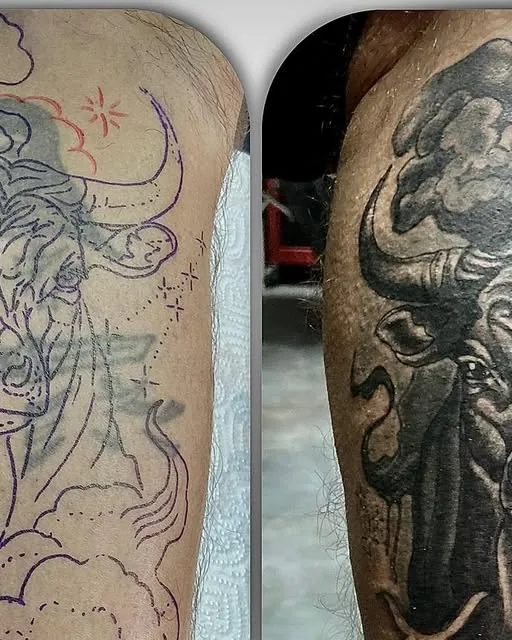
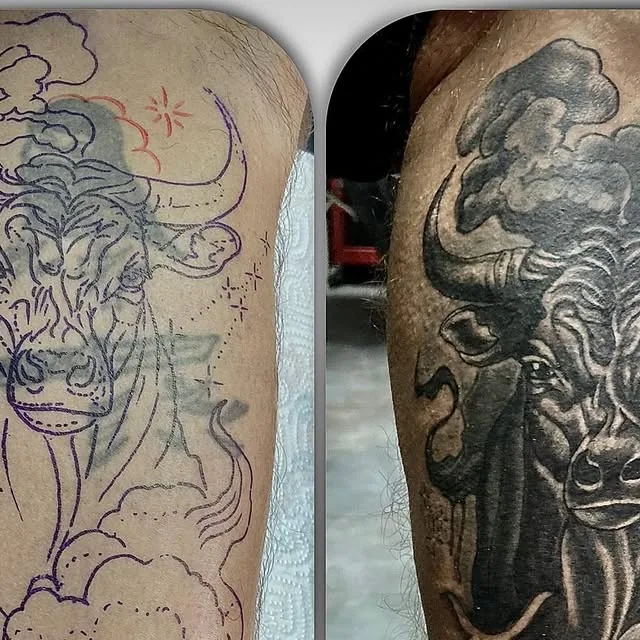
Tira os zooms das fotos e deixa o mapa igual ao do DnA
PROBLEMA 1 - zoom nas fotos
Medi antes de mexer. A grade nao cortava nada: as fotos ja chegam
quadradas do Instagram. O corte era meu em outros tres lugares:

  - hover das fotos tinha transform:scale(1.055) -- zoom de verdade
  - .band__ph e .artist__ph forcavam aspect-ratio:4/5 numa foto
    640x640, cortando 20% das laterais
  - object-fit:cover comia as pontas de qualquer foto nao exata

Agora: sem scale no hover, object-fit:contain com fundo escuro, e o
gerador produz spot.webp e studio.webp quadradas em vez de 4:5.

⚠ Fica um corte que NAO e nosso: o og:image do Instagram ja entrega o
post 4:5 esquartejado em quadrado. Para ter a foto inteira so com os
originais do dono, ou pelo Facebook (onde o album nao corta).

PROBLEMA 2 - mapa
Voltou a ser identico ao do DnA: Leaflet do unpkg carregando junto com a
pagina, tiles CartoDB dark, mesmo pin vermelho, mesmo invalidateSize com
ResizeObserver. So mudou a coordenada (35.9467465, 14.408689) e o
endereco do botao "Open in Google Maps".

A cortina de carregar-ao-clicar saiu, como o Joao pediu.

Como o embed passou a carregar sozinho e Malta e UE, a regra 8 manda
deixar o banner e a politica escritos e desligados: entrou
INTEGRACOES.consentimento (ativo:false) com o banner pronto -- Aceitar e
Recusar do mesmo tamanho -- e privacy.html escrita em ingles, citando o
IDPC. Nao esta linkada enquanto o banner dorme.

Conferido no navegador: object-fit contain, transform none, Leaflet
[…]

diff --git a/index.html b/index.html
@@ -10,6 +10,7 @@
 <link rel="preconnect" href="https://fonts.googleapis.com">
 <link rel="preconnect" href="https://fonts.gstatic.com" crossorigin>
 <link href="https://fonts.googleapis.com/css2?family=Anton&family=Inter:wght@400;500;600;700&family=Pirata+One&display=swap" rel="stylesheet">
+<link rel="stylesheet" href="https://unpkg.com/leaflet@1.9.4/dist/leaflet.css">
 <style>
 /* ============================================================
    INKREDIBLE GHILLER TATTOO — MVP de prospeccao
@@ -215,12 +216,16 @@ body::before{
 }
 .tile.in{opacity:1;transform:none}
 .tile:hover{border-color:var(--mut)}
+/* contain, nao cover: se a foto nao for exatamente quadrada, cover come as
+   pontas. A tatuagem inteira vale mais que o quadro perfeito. */
 .tile img{
-  width:100%;height:100%;object-fit:cover;
-  transition:transform .5s ease,filter .5s ease;
+  width:100%;height:100%;object-fit:contain;background:#0E0E11;
+  transition:filter .5s ease;
   filter:grayscale(12%);
 }
-.tile:hover img{transform:scale(1.055);filter:grayscale(0)}
+/* sem zoom ao passar o mouse: o Joao pediu para ver a tatuagem inteira,
+   e o scale cortava as bordas. Fica so a cor voltando. */
+.tile:hover img{filter:grayscale(0)}
 .tile__tag{
   position:absolute;left:0;right:0;bottom:0;
   padding:26px 12px 10px;
@@ -242,7 +247,9 @@ body::before{
 .band__in{display:grid;grid-template-columns:1fr 1.1fr;gap:clamp(28px,5vw,64px);align-items:center}
 @media(max-width:860px){.band__in{grid-template-columns:1fr}}
 .band__ph{position:relative;border-radius:var(--r);overflow:hidden;border:1px solid var(--line)}
-.band__ph img{width:100%;height:100%;object-fit:cover;aspect-ratio:4/5}
+/* quadrado, nao 4:5: forcar 4:5 numa foto quadrada cortava 20% das
+   laterais -- era o "zoom" que o Joao viu. */
+.band__ph img{width:100%;height:auto;object-fit:contain}
 .band__stamp{
   position:absolute;top:14px;left:14px;background:rgba(8,8,10,.8);border:1px solid var(--line);
   border-radius:3px;padding:7px 12px;font-size:10.5px;letter-spacing:.2em;text-transform:uppercase;color:var(--ink);
@@ -258,7 +265,7 @@ body::before{
 .artist{display:grid;grid-template-columns:.9fr 1.1fr;gap:clamp(30px,5vw,70px);align-items:center}
 @media(max-width:860px){.artist{grid-template-columns:1fr}}
 .artist__ph{position:relative;border-radius:var(--r);overflow:hidden;border:1px solid var(--line)}
-.artist__ph img{width:100%;aspect-ratio:4/5;object-fit:cover;filter:grayscale(100%) contrast(1.05)}
+.artist__ph img{width:100%;height:auto;object-fit:contain;filter:grayscale(100%) contrast(1.05)}
 .artist__ph::after{
   content:"INKREDIBLE GHILLER";position:absolute;right:14px;bottom:12px;
   font-family:var(--display);font-size:12px;letter-spacing:.24em;color:rgba(233,228,218,.8);
@@ -343,19 +350,8 @@ body::before{
 .map .leaflet-control-attribution a{color:#8E8779}
 .map .leaflet-bar a{background:#15151A;color:#E9E4DA;border-color:#232329}
 .map .leaflet-bar a:hover{background:#1d1d23}
-/* cortina do mapa: nada de terceiro carrega antes do clique (regra 8 / GDPR) */
-.map__gate{
-  position:absolute;inset:0;z-index:5;display:flex;flex-direction:column;
-  align-items:center;justify-content:center;gap:14px;text-align:center;padding:26px;
-  background:
-    radial-gradient(circle at 50% 45%, rgba(193,18,31,.10), transparent 62%),
-    repeating-linear-gradient(45deg,#0E0E11 0 14px,#111116 14px 28px);
-}
-.map__gate p{font-size:13px;color:var(--mut);max-width:38ch;line-height:1.55}
-.map__gate b{color:var(--ink);display:block;font-family:var(--display);
-  font-size:20px;letter-spacing:.05em;text-transform:uppercase;margin-bottom:2px}
 .map__open{
-  position:absolute;left:14px;bottom:14px;z-index:6;
+  position:absolute;left:14px;bottom:14px;
   background:rgba(8,8,10,.85);border:1px solid var(--line);border-radius:var(--r);
   color:var(--ink);text-decoration:none;font-size:12.5px;font-weight:600;letter-spacing:.05em;
   padding:11px 16px;display:inline-flex;gap:8px;align-items:center;min-height:44px;
@@ -660,14 +656,9 @@ body::before{
       <h2 class="h2">St Paul's <em>Bay</em></h2>
     </div>
     <div class="find" style="margin-top:38px">
-      <div class="map rev" aria-label="Where Inkredible Ghiller Tattoo is">
+      <div class="map rev" aria-label="Map of Inkredible Ghiller Tattoo on Mosta Road, St Paul's Bay, Malta">
         <div id="leafmap"></div>
-        <div class="map__gate" id="mapGate">
-          <p><b>Mosta Road</b>Buġibba, St Paul's Bay</p>
-          <button class="btn btn--ghost" id="mapLoad" type="button">Show the map</button>
-          <p style="font-size:11.5px">The map is loaded from OpenStreetMap only after you ask for it, so nothing about you leaves this page on its own.</p>
-        </div>
-        <a class="map__open" href="https://www.google.com/maps/search/?api=1&amp;query=35.9467465,14.408689" target="_blank" rel="noopener noreferrer">Open in Google Maps ↗</a>
+        <a class="map__open" href="https://www.google.com/maps/search/?api=1&amp;query=Inkredibel+Ghiller+Tattoo+Malta+Triq+il-Mosta+Bugibba" target="_blank" rel="noopener noreferrer">Open in Google Maps ↗</a>
       </div>
       <div class="info rev">
         <div class="info__row">
@@ -752,8 +743,51 @@ const INTEGRACOES = {
   metaPixel: { ativo:false, id:"" },   // Pixel do Facebook
   formspree: { ativo:false, id:"" },   // formulario que salva
   planilha:  { ativo:false, url:"" },  // Google Sheets
-  agenda:    { ativo:false, url:"" }   // agendamento online
+  agenda:    { ativo:false, url:"" },  // agendamento online
+
+  /* O MAPA e o unico terceiro que carrega sozinho nesta pagina. Ligar este
+     item no dia que o cliente fechar: ele segura o mapa ate a pessoa
+     aceitar e mostra o link da politica. A politica ja esta em privacy.html. */
+  consentimento: { ativo:false, politica:"privacy.html" }
 };
+
+/* ---------- banner de consentimento (dorme ate INTEGRACOES ligar) ----------
+   Escrito agora de proposito: a regra 8 diz que, se um embed entra no MVP
+   mesmo assim, o banner e a politica ficam prontos e desligados -- pra virar
+   uma linha no dia que ele fechar, e nao um projeto. */
+(() => {
+  if (!INTEGRACOES.consentimento.ativo) return;
+  let escolha = null;
+  try { escolha = localStorage.getItem("mapa-ok"); } catch (e) {}
+  if (escolha !== null) return;
+  const el = document.createElement("div");
+  el.innerHTML =
+    '<p style="margin:0;max-width:62ch">This site shows a map from OpenStreetMap.'
+    + ' Loading it shares your IP address with the map provider. Nothing else is'
+    + ' collected and no cookies are set. <a style="color:#E9E4DA" href="'
+    + INTEGRACOES.consentimento.politica + '">Privacy policy</a></p>'
+    + '<div style="display:flex;gap:10px"><button type="button" data-ok="1">Accept'
+    + '</button><button type="button" data-ok="0">Decline</button></div>';
+  el.style.cssText = "position:fixed;left:16px;right:16px;bottom:16px;z-index:70;"
+    + "background:#15151A;border:1px solid #232329;border-radius:10px;"
+    + "padding:18px 20px;display:flex;flex-wrap:wrap;gap:14px;align-items:center;"
+    + "justify-content:space-between;font:400 13.5px Inter,system-ui,sans-serif;"
+    + "color:#C9C3B6;max-width:900px;margin:0 auto";
+  el.querySelectorAll("button").forEach(b => {
+    /* Aceitar e Recusar com o mesmo tamanho e o mesmo peso: a regra 8 exige
+       que recusar seja tao facil quanto aceitar. */
+    b.style.cssText = "min-height:44px;padding:11px 22px;border-radius:6px;"
+      + "cursor:pointer;font:700 13px Inter,system-ui,sans-serif;"
+      + "border:1px solid #232329;background:"
+      + (b.dataset.ok === "1" ? "#C1121F;color:#fff" : "transparent;color:#E9E4DA");
+    b.addEventListener("click", () => {
+      try { localStorage.setItem("mapa-ok", b.dataset.ok); } catch (e) {}
+      el.remove();
+      if (b.dataset.ok === "1") location.reload();
+    });
+  });
+  document.body.appendChild(el);
+})();
 
 const $  = s => document.querySelector(s);
 const $$ = s => [...document.querySelectorAll(s)];
@@ -842,43 +876,39 @@ $("#ideaForm").addEventListener("submit", e => {
               "_blank", "noopener");
 });
 
-/* ---------- mapa: so carrega DEPOIS do clique ----------
-   O site do DnA puxava o Leaflet do unpkg e os tiles do CartoDB no
-   carregamento da pagina. Isso manda o IP de quem visita para dois
-   servidores de fora antes de a pessoa clicar em nada — em Malta,
-   que e UE, isso e tratamento de dado pessoal sem base legal.
-   Aqui nada de terceiro e pedido ate o visitante apertar o botao. */
-(() => {
-  const bt = $("#mapLoad"), gate = $("#mapGate"), el = $("#leafmap");
-  if (!bt) return;
-  const carregar = () => {
-    bt.disabled = true;
-    bt.textContent = "Loading…";
-    const css = document.createElement("link");
-    css.rel = "stylesheet";
-    css.href = "https://unpkg.com/leaflet@1.9.4/dist/leaflet.css";
-    document.head.appendChild(css);
-    const js = document.createElement("script");
-    js.src = "https://unpkg.com/leaflet@1.9.4/dist/leaflet.js";
-    js.onload = () => {
-      const map = L.map("leafmap", {
-        center:[CONFIG.lat, CONFIG.lon], zoom:16, zoomControl:true, scrollWheelZoom:true
-      });
-      L.tileLayer("https://{s}.basemaps.cartocdn.com/dark_all/{z}/{x}/{y}{r}.png", {
-        subdomains:"abcd", maxZoom:20, attribution:"&copy; OpenStreetMap &copy; CARTO"
-      }).addTo(map);
-      const pin = L.divIcon({ className:"", iconSize:[30,40], iconAnchor:[15,40],
-        html:'<svg width="30" height="40" viewBox="0 0 24 32" xmlns="http://www.w3.org/2000/svg"><path fill="#C1121F" stroke="#0B0B0D" stroke-width="1.2" d="M12 1C6.8 1 3 4.9 3 9.9 3 16.7 12 31 12 31s9-14.3 9-21.1C21 4.9 17.2 1 12 1z"/><circle cx="12" cy="10" r="3.2" fill="#0B0B0D"/></svg>' });
-      L.marker([CONFIG.lat, CONFIG.lon], {icon:pin}).addTo(map);
-      gate.remove();
-      const fix = () => map.invalidateSize();
-      requestAnimationFrame(fix);
-      if (window.ResizeObserver) new ResizeObserver(fix).observe(el);
-    };
-    js.onerror = () => { bt.disabled = false; bt.textContent = "Map unavailable — open in Google Maps"; };
-    document.head.appendChild(js);
-  };
-  bt.addEventListener("click", carregar);
+/* o mapa ficou igual ao do DnA: script proprio no fim do body */
+</script>
+<script src="https://unpkg.com/leaflet@1.9.4/dist/leaflet.js"></script>
+<script>
+/* mapa escuro interativo (Leaflet + tiles CartoDB dark), igual ao do DnA.
+   Carrega no site publicado; em visualizador que bloqueia conteudo externo
+   pode nao aparecer -- normal.
+
+   ATENCAO: Malta e UE. Este embed pede o Leaflet ao unpkg e os tiles ao
+   CartoDB assim que a pagina abre, o que manda o IP de quem visita para fora
+   antes de qualquer clique. Enquanto for MVP com noindex (so o dono ve), nao
+   ha exposicao pratica. NO DIA QUE ELE FECHAR: ligar
+   INTEGRACOES.consentimento e publicar privacy.html -- ja estao escritos. */
+(function(){
+  var el = document.getElementById("leafmap");
+  if (typeof L === "undefined" || !el) return;
+  var LAT = 35.9467465, LON = 14.408689;
+  var map = L.map("leafmap", {
+    center:[LAT,LON], zoom:16, zoomControl:true, scrollWheelZoom:true
+  });
+  L.tileLayer("https://{s}.basemaps.cartocdn.com/dark_all/{z}/{x}/{y}{r}.png", {
+    subdomains:"abcd", maxZoom:20, attribution:"&copy; OpenStreetMap &copy; CARTO"
+  }).addTo(map);
+  var pin = L.divIcon({ className:"", iconSize:[30,40], iconAnchor:[15,40],
+    html:'<svg width="30" height="40" viewBox="0 0 24 32" xmlns="http://www.w3.org/2000/svg"><path fill="#C1121F" stroke="#0B0B0D" stroke-width="1.2" d="M12 1C6.8 1 3 4.9 3 9.9 3 16.7 12 31 12 31s9-14.3 9-21.1C21 4.9 17.2 1 12 1z"/><circle cx="12" cy="10" r="3.2" fill="#0B0B0D"/></svg>' });
+  L.marker([LAT,LON], {icon:pin}).addTo(map);
+
+  /* o container tem altura fixa, mas garantimos o recalculo caso a
+     fonte/layout mude depois do init */
+  var fix = function(){ map.invalidateSize(); };
+  requestAnimationFrame(fix);
+  addEventListener("load", fix);
+  if (window.ResizeObserver) new ResizeObserver(fix).observe(el);
 })();
 </script>
 </body>

diff --git a/privacy.html b/privacy.html
@@ -1,0 +1,105 @@
+<!doctype html>
+<html lang="en">
+<head>
+<meta charset="utf-8">
+<meta name="viewport" content="width=device-width, initial-scale=1">
+<meta name="robots" content="noindex, nofollow">
+<title>Privacy Policy — Inkredible Ghiller Tattoo</title>
+<link rel="preconnect" href="https://fonts.googleapis.com">
+<link rel="preconnect" href="https://fonts.gstatic.com" crossorigin>
+<link href="https://fonts.googleapis.com/css2?family=Anton&family=Inter:wght@400;600;700&display=swap" rel="stylesheet">
+<style>
+/* ============================================================
+   POLITICA DE PRIVACIDADE — escrita ANTES de precisar.
+   Regra 8: Malta e UE, e o mapa do site carrega de servidor de fora.
+   Enquanto INTEGRACOES.consentimento estiver desligado, esta pagina
+   existe mas nao esta linkada. No dia que ligar, o banner aponta pra ca.
+   ⚠ Os campos entre colchetes precisam do dono antes de publicar.
+   ============================================================ */
+:root{--bg:#0B0B0D;--panel:#15151A;--line:#232329;--ink:#E9E4DA;--mut:#8E8779;--red:#C1121F}
+*{box-sizing:border-box;margin:0;padding:0}
+body{background:var(--bg);color:var(--ink);font-family:Inter,system-ui,sans-serif;
+     font-size:16px;line-height:1.65}
+.wrap{max-width:760px;margin:0 auto;padding:clamp(40px,8vw,90px) clamp(20px,5vw,40px)}
+h1{font-family:Anton,Impact,sans-serif;font-size:clamp(34px,6vw,54px);
+   text-transform:uppercase;font-weight:400;line-height:1.05;margin-bottom:10px}
+h2{font-family:Anton,Impact,sans-serif;font-size:20px;text-transform:uppercase;
+   font-weight:400;letter-spacing:.04em;margin:36px 0 10px;color:var(--ink)}
+p,li{color:#C9C3B6;margin-bottom:12px}
+ul{padding-left:20px}
+a{color:var(--ink)}
+.date{font-size:12px;letter-spacing:.2em;text-transform:uppercase;color:var(--mut);
+      margin-bottom:34px}
+.box{background:var(--panel);border:1px solid var(--line);border-left:3px solid var(--red);
+     border-radius:0 6px 6px 0;padding:18px 22px;margin:26px 0}
+.back{display:inline-flex;align-items:center;min-height:44px;margin-top:40px;
+      font-size:13px;font-weight:700;letter-spacing:.06em;text-transform:uppercase;
+      color:var(--mut);text-decoration:none}
+.back:hover{color:var(--ink)}
+</style>
+</head>
+<body>
+<div class="wrap">
+
+<h1>Privacy policy</h1>
+<p class="date">Inkredible Ghiller Tattoo · St Paul's Bay, Malta</p>
+
+<p>This is a small website for a tattoo studio. It has no accounts, no shopping
+cart and no newsletter. We have tried to keep it that way on purpose.</p>
+
+<h2>What we do not do</h2>
+<ul>
+  <li><b>No cookies.</b> This site sets none.</li>
+  <li><b>No analytics.</b> There is no Google Analytics, no Facebook Pixel and no
+      other tracking script.</li>
+  <li><b>No form is stored.</b> The "tell us your idea" form never sends anything
+      to us. It writes a WhatsApp message in your browser and opens WhatsApp with
+      the text ready — you decide whether to send it. Nothing is saved on this
+      site, before or after.</li>
+</ul>
+
+<h2>The one thing that does leave this page</h2>
+<p>The page shows a map so you can find the studio. The map is drawn by
+<b>OpenStreetMap</b>, with map tiles served by <b>CARTO</b>, and the map library
+is loaded from <b>unpkg</b>. To draw it, your browser has to ask those servers
+for the images — and any request like that carries your <b>IP address</b> and
+your browser's user agent.</p>
+<p>We do not receive that information, and we cannot see it. It goes to those
+providers as part of the normal request. If you would rather not load the map,
+decline it on the banner and use the "Open in Google Maps" button only when you
+want to.</p>
+
+<h2>When you contact us</h2>
+<p>If you write on WhatsApp, by phone or by email, we keep that conversation the
+way any business keeps its messages, so we can answer you and organise your
+session. We do not use it for advertising and we do not pass it to anyone else.
+Ask us and we will delete it.</p>
+
+<h2>Your rights</h2>
+<p>Under the GDPR you can ask us what we hold about you, ask us to correct it,
+ask us to delete it, or object to how we use it. Write to us and we will answer.</p>
+<ul>
+  <li><b>WhatsApp / phone:</b> +356 9989 6698</li>
+  <li><b>Email:</b> ghilltat2@yahoo.co.uk</li>
+</ul>
+<p>If you are not happy with our answer, you can complain to the
+<b>Information and Data Protection Commissioner (IDPC)</b>, the data protection
+authority in Malta, at <a href="https://idpc.org.mt" target="_blank" rel="noopener noreferrer">idpc.org.mt</a>.</p>
+
+<h2>Who is responsible</h2>
+<p>The data controller is the studio, Inkredible Ghiller Tattoo, Triq il-Mosta,
+Buġibba, San Pawl il-Baħar SPB 3112, Malta. The website is built and maintained
+by João Marcelo Brandão, acting as processor.</p>
+
+<div class="box">
+  <p style="margin:0"><b>Before publishing:</b> the studio's registered business
+  name and registration number still have to be added here, and the email address
+  confirmed (two directories spell it differently). Until the studio confirms,
+  this page is not linked from the site.</p>
+</div>
+
+<a class="back" href="index.html">← Back to the site</a>
+
+</div>
+</body>
+</html>
